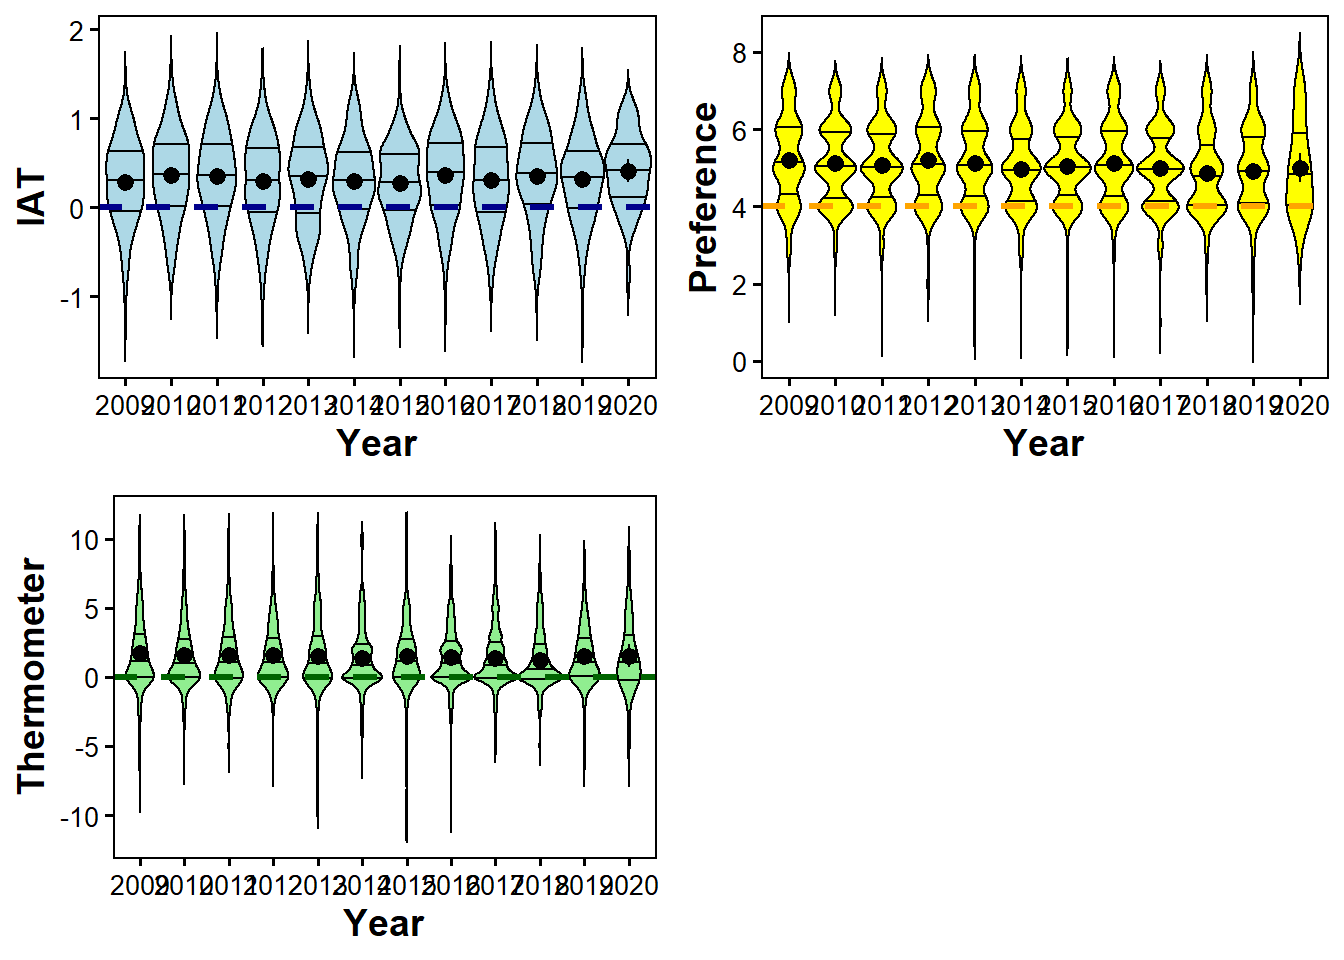
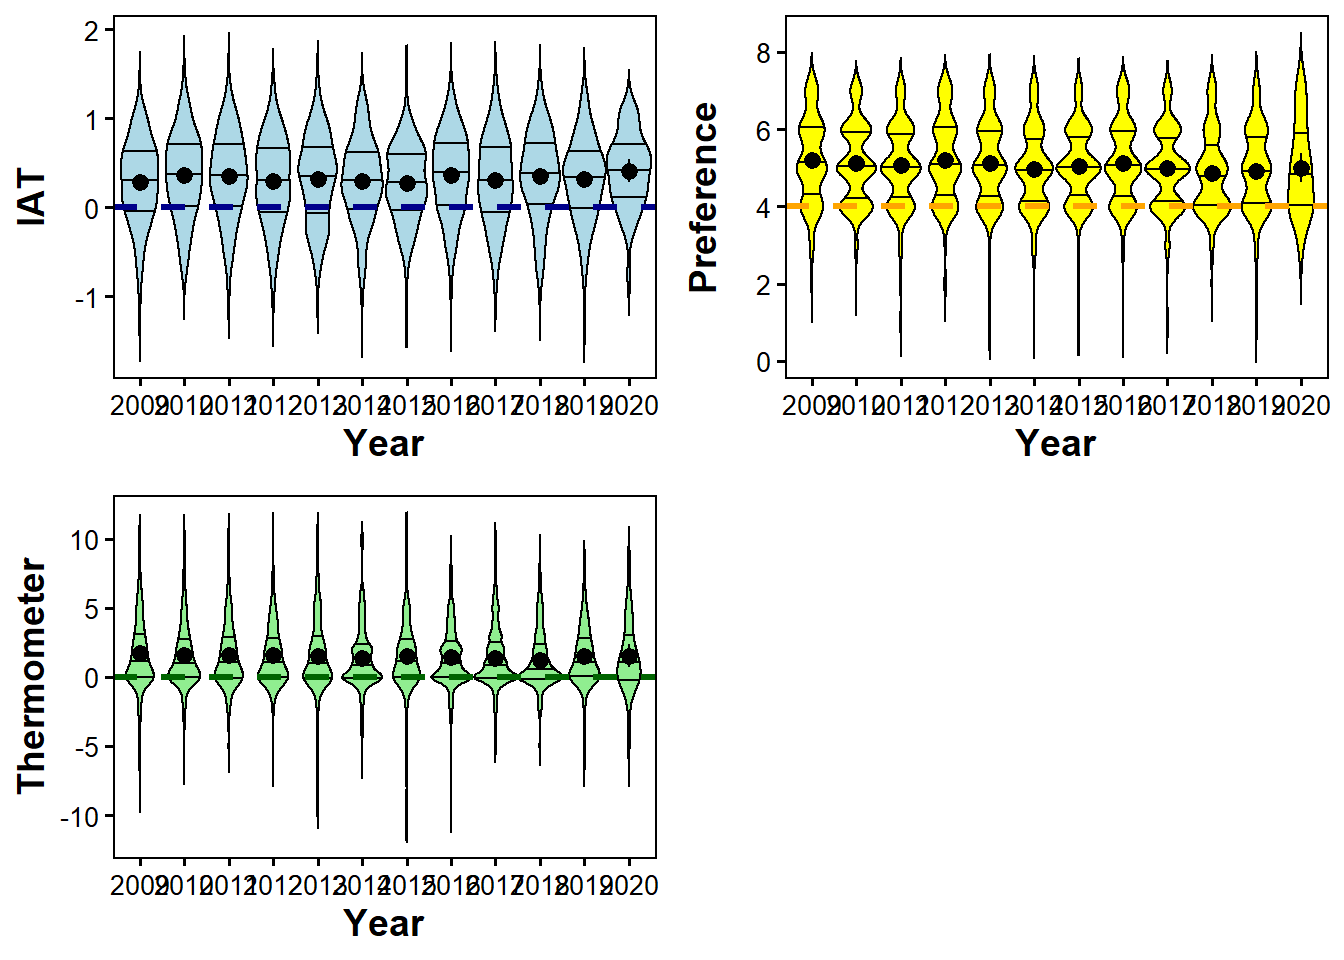
update israle's post

diff --git a/public/post/analysis-of-israel-s-data/index.html b/public/post/analysis-of-israel-s-data/index.html
@@ -59,7 +59,7 @@
   "headline": "Analysis of Israel\x27s data",
   "description" : "Summary\rTasks Overview\rThe IATs\rThe Self-Reports\rInternal\/External motivation to avoid prejudice\rSocial-Dominance Orientation\rRight-Wing Authoritarianism\r\rTask-Specific Items\rAge-IAT: Perceptions Regarding Age\rEthnicity-IAT:\rSkin-tone IAT: Perceptions regarding skin tone\rWeight-IAT: Perceptions regarding weight\rSexuality-IAT: Perceptions regarding sexuality\rGender-Science IAT: Evaluation measures\rGender-Science IAT: Perceptions regarding gender and science\r\r\rResults\rAge IAT\rEvaluation measures: Overall means and correlations\rCorrelation between the measures\rIAT block-order\rInternal\/External motivation to avoid prejudice\rPerceptions regarding age\rEvaluation measures by demographics\rIAT by N of previous IATs\rEvaluation measures by year\r\rEthnicity IAT\rEvaluation measures: Overall means and correlations\rCorrelation between the measures\rIAT block-order\rPerceived preference in society\rPerceptions regarding ethnicity\rEvaluation measures by demographics\rIAT by N of previous IATs\rEvaluation measures by year\r\rRace IAT\rEvaluation measures: Overall means and correlations\rCorrelation between the measures\rIAT block-order\rRight wing authoritarianism\rsocial dominance orientation\rEvaluation measures by demographics\rIAT by N of previous IATs\rEvaluation measures by year\r\rSkin IAT\rEvaluation measures: Overall means and correlations\rCorrelation between the measures\rIAT block-order\rPerceptions regarding skin tone\rRight wing authoritarianism\rsocial dominance orientation\rEvaluation measures by demographics\rIAT by N of previous IATs\rEvaluation measures by year\r\rWeight IAT\rEvaluation measures: Overall means and correlations\rCorrelation between the measures\rIAT block-order\rInternal\/External motivation to avoid prejudice\rPerceptions regarding weight\rEvaluation measures by demographics\rIAT by N of previous IATs\rEvaluation measures by year\r\rSexuality IAT\rEvaluation measures: Overall means and correlations\rCorrelation between the measures\rIAT block-order\rPerceptions regarding sexuality\rEvaluation measures by demographics\rIAT by N of previous IATs\rEvaluation measures by year\r\rGender-Science IAT\rEvaluation measures: Overall means and correlations\rCorrelation between the measures\rIAT block-order\rPerceptions regarding gender and science\rEvaluation measures by demographics\rIAT by N of previous IATs\rEvaluation measures by year\r\rNationalism IAT\rEvaluation measures: Overall means and correlations\rCorrelation between the measures\rIAT block-order\rRight wing authoritarianism\rsocial dominance orientation\rEvaluation measures by demographics\rIAT by N of previous IATs\rEvaluation measures by year\r\r\rCompare all IATs\r\r\rbody, td { font-size: 16px; } code.",
   "inLanguage" : "en",
-  "wordCount":  24949 ,
+  "wordCount":  24967 ,
   "datePublished" : "2020-05-19T00:00:00",
   "dateModified" : "2020-05-19T00:00:00",
   "image" : "\/img\/logo.png",
@@ -241,7 +241,7 @@
     &nbsp;|&nbsp;<i class="fas fa-clock"></i>&nbsp;118&nbsp;minutes
   
   
-    &nbsp;|&nbsp;<i class="fas fa-book"></i>&nbsp;24949&nbsp;words
+    &nbsp;|&nbsp;<i class="fas fa-book"></i>&nbsp;24967&nbsp;words
   
   
     
@@ -1237,8 +1237,15 @@ p3 &lt;- p3 + font(&quot;title&quot;, size = 14, color = &quot;black&quot;, face
     font(&quot;xy.text&quot;, size = 10, color = &quot;black&quot;)
 p3 &lt;- p3 + theme(legend.position = &quot;none&quot;)
 
-ggarrange(p1, ggarrange(p2, p3, ncol = 2), nrow = 2)</code></pre>
+ggarrange(p1, p2, p3, ncol = 1, nrow = 2)</code></pre>
+<pre><code>$`1`</code></pre>
 <p><img src="/post/2020-05-19-analysis-of-israel-s-data.en_files/figure-html/unnamed-chunk-17-1.png" width="672" /></p>
+<pre><code>
+$`2`</code></pre>
+<p><img src="/post/2020-05-19-analysis-of-israel-s-data.en_files/figure-html/unnamed-chunk-17-2.png" width="672" /></p>
+<pre><code>
+attr(,&quot;class&quot;)
+[1] &quot;list&quot;      &quot;ggarrange&quot;</code></pre>
 </div>
 </div>
 <div id="ethnicity-iat-1" class="section level2">
@@ -1662,7 +1669,7 @@ p4 &lt;- p4 + font(&quot;title&quot;, size = 14, color = &quot;black&quot;, face
 p4 &lt;- p4 + theme(legend.position = &quot;none&quot;)
 
 
-ggarrange(p1, p2, p3, p4, ncol = 2, nrow = 2)</code></pre>
+ggarrange(p1, p2, p3, p4, ncol = 1, nrow = 4)</code></pre>
 <p><img src="/post/2020-05-19-analysis-of-israel-s-data.en_files/figure-html/unnamed-chunk-31-1.png" width="672" /></p>
 <p>There was a positive relation between all evaluation measures and all perception measures, but Smart and Scare were most strongly related to evaluation.</p>
 <pre class="r"><code>ethnic %&gt;% corrMatrix(vars = vars(IAT, att, diff_pref, scare, 
@@ -2435,8 +2442,15 @@ p3 &lt;- p3 + font(&quot;title&quot;, size = 14, color = &quot;black&quot;, face
     font(&quot;xy.text&quot;, size = 10, color = &quot;black&quot;)
 p3 &lt;- p3 + theme(legend.position = &quot;none&quot;)
 
-ggarrange(p1, ggarrange(p2, p3, ncol = 2), nrow = 2)</code></pre>
+ggarrange(p1, p2, p3, ncol = 1, nrow = 2)</code></pre>
+<pre><code>$`1`</code></pre>
 <p><img src="/post/2020-05-19-analysis-of-israel-s-data.en_files/figure-html/unnamed-chunk-35-1.png" width="672" /></p>
+<pre><code>
+$`2`</code></pre>
+<p><img src="/post/2020-05-19-analysis-of-israel-s-data.en_files/figure-html/unnamed-chunk-35-2.png" width="672" /></p>
+<pre><code>
+attr(,&quot;class&quot;)
+[1] &quot;list&quot;      &quot;ggarrange&quot;</code></pre>
 </div>
 </div>
 <div id="race-iat" class="section level2">
@@ -3455,8 +3469,15 @@ p3 &lt;- p3 + font(&quot;title&quot;, size = 14, color = &quot;black&quot;, face
     font(&quot;xy.text&quot;, size = 10, color = &quot;black&quot;)
 p3 &lt;- p3 + theme(legend.position = &quot;none&quot;)
 
-ggarrange(p1, ggarrange(p2, p3, ncol = 2), nrow = 2)</code></pre>
+ggarrange(p1, p2, p3, ncol = 1, nrow = 2)</code></pre>
+<pre><code>$`1`</code></pre>
 <p><img src="/post/2020-05-19-analysis-of-israel-s-data.en_files/figure-html/unnamed-chunk-52-1.png" width="672" /></p>
+<pre><code>
+$`2`</code></pre>
+<p><img src="/post/2020-05-19-analysis-of-israel-s-data.en_files/figure-html/unnamed-chunk-52-2.png" width="672" /></p>
+<pre><code>
+attr(,&quot;class&quot;)
+[1] &quot;list&quot;      &quot;ggarrange&quot;</code></pre>
 </div>
 </div>
 <div id="skin-iat" class="section level2">
@@ -4866,7 +4887,7 @@ p3 &lt;- p3 + font(&quot;title&quot;, size = 14, color = &quot;black&quot;, face
     font(&quot;xy.text&quot;, size = 10, color = &quot;black&quot;)
 p3 &lt;- p3 + theme(legend.position = &quot;none&quot;)
 
-cowplot::plot_grid(p1, p3, p2, ncol = 2, align = &quot;h&quot;, axis = &quot;bt&quot;)</code></pre>
+cowplot::plot_grid(p1, p3, p2, ncol = 2, align = &quot;v&quot;, axis = &quot;bt&quot;)</code></pre>
 <p><img src="/post/2020-05-19-analysis-of-israel-s-data.en_files/figure-html/unnamed-chunk-86-1.png" width="672" /></p>
 </div>
 </div>

diff --git a/content/post/2020-05-19-analysis-of-israel-s-data.en.html b/content/post/2020-05-19-analysis-of-israel-s-data.en.html
@@ -22,7 +22,7 @@ blogdown::html_page:
     fig_height: 5
     fig_width: 10   
     toc: true
-    toc_float: yes
+    toc_float: true
 type: ''
 subtitle: ''
 image: ''
@@ -1000,8 +1000,15 @@ p3 &lt;- p3 + font(&quot;title&quot;, size = 14, color = &quot;black&quot;, face
     font(&quot;xy.text&quot;, size = 10, color = &quot;black&quot;)
 p3 &lt;- p3 + theme(legend.position = &quot;none&quot;)
 
-ggarrange(p1, ggarrange(p2, p3, ncol = 2), nrow = 2)</code></pre>
+ggarrange(p1, p2, p3, ncol = 1, nrow = 2)</code></pre>
+<pre><code>$`1`</code></pre>
 <p><img src="/post/2020-05-19-analysis-of-israel-s-data.en_files/figure-html/unnamed-chunk-17-1.png" width="672" /></p>
+<pre><code>
+$`2`</code></pre>
+<p><img src="/post/2020-05-19-analysis-of-israel-s-data.en_files/figure-html/unnamed-chunk-17-2.png" width="672" /></p>
+<pre><code>
+attr(,&quot;class&quot;)
+[1] &quot;list&quot;      &quot;ggarrange&quot;</code></pre>
 </div>
 </div>
 <div id="ethnicity-iat-1" class="section level2">
@@ -1425,7 +1432,7 @@ p4 &lt;- p4 + font(&quot;title&quot;, size = 14, color = &quot;black&quot;, face
 p4 &lt;- p4 + theme(legend.position = &quot;none&quot;)
 
 
-ggarrange(p1, p2, p3, p4, ncol = 2, nrow = 2)</code></pre>
+ggarrange(p1, p2, p3, p4, ncol = 1, nrow = 4)</code></pre>
 <p><img src="/post/2020-05-19-analysis-of-israel-s-data.en_files/figure-html/unnamed-chunk-31-1.png" width="672" /></p>
 <p>There was a positive relation between all evaluation measures and all perception measures, but Smart and Scare were most strongly related to evaluation.</p>
 <pre class="r"><code>ethnic %&gt;% corrMatrix(vars = vars(IAT, att, diff_pref, scare, 
@@ -2198,8 +2205,15 @@ p3 &lt;- p3 + font(&quot;title&quot;, size = 14, color = &quot;black&quot;, face
     font(&quot;xy.text&quot;, size = 10, color = &quot;black&quot;)
 p3 &lt;- p3 + theme(legend.position = &quot;none&quot;)
 
-ggarrange(p1, ggarrange(p2, p3, ncol = 2), nrow = 2)</code></pre>
+ggarrange(p1, p2, p3, ncol = 1, nrow = 2)</code></pre>
+<pre><code>$`1`</code></pre>
 <p><img src="/post/2020-05-19-analysis-of-israel-s-data.en_files/figure-html/unnamed-chunk-35-1.png" width="672" /></p>
+<pre><code>
+$`2`</code></pre>
+<p><img src="/post/2020-05-19-analysis-of-israel-s-data.en_files/figure-html/unnamed-chunk-35-2.png" width="672" /></p>
+<pre><code>
+attr(,&quot;class&quot;)
+[1] &quot;list&quot;      &quot;ggarrange&quot;</code></pre>
 </div>
 </div>
 <div id="race-iat" class="section level2">
@@ -3218,8 +3232,15 @@ p3 &lt;- p3 + font(&quot;title&quot;, size = 14, color = &quot;black&quot;, face
     font(&quot;xy.text&quot;, size = 10, color = &quot;black&quot;)
 p3 &lt;- p3 + theme(legend.position = &quot;none&quot;)
 
-ggarrange(p1, ggarrange(p2, p3, ncol = 2), nrow = 2)</code></pre>
+ggarrange(p1, p2, p3, ncol = 1, nrow = 2)</code></pre>
+<pre><code>$`1`</code></pre>
 <p><img src="/post/2020-05-19-analysis-of-israel-s-data.en_files/figure-html/unnamed-chunk-52-1.png" width="672" /></p>
+<pre><code>
+$`2`</code></pre>
+<p><img src="/post/2020-05-19-analysis-of-israel-s-data.en_files/figure-html/unnamed-chunk-52-2.png" width="672" /></p>
+<pre><code>
+attr(,&quot;class&quot;)
+[1] &quot;list&quot;      &quot;ggarrange&quot;</code></pre>
 </div>
 </div>
 <div id="skin-iat" class="section level2">
@@ -4629,7 +4650,7 @@ p3 &lt;- p3 + font(&quot;title&quot;, size = 14, color = &quot;black&quot;, face
     font(&quot;xy.text&quot;, size = 10, color = &quot;black&quot;)
 p3 &lt;- p3 + theme(legend.position = &quot;none&quot;)
 
-cowplot::plot_grid(p1, p3, p2, ncol = 2, align = &quot;h&quot;, axis = &quot;bt&quot;)</code></pre>
+cowplot::plot_grid(p1, p3, p2, ncol = 2, align = &quot;v&quot;, axis = &quot;bt&quot;)</code></pre>
 <p><img src="/post/2020-05-19-analysis-of-israel-s-data.en_files/figure-html/unnamed-chunk-86-1.png" width="672" /></p>
 </div>
 </div>

diff --git a/public/categories/age-iat/index.html b/public/categories/age-iat/index.html
@@ -217,7 +217,7 @@
     &nbsp;|&nbsp;<i class="fas fa-clock"></i>&nbsp;118&nbsp;minutes
   
   
-    &nbsp;|&nbsp;<i class="fas fa-book"></i>&nbsp;24949&nbsp;words
+    &nbsp;|&nbsp;<i class="fas fa-book"></i>&nbsp;24967&nbsp;words
   
   
     

diff --git a/public/categories/ethnicity-iat/index.html b/public/categories/ethnicity-iat/index.html
@@ -217,7 +217,7 @@
     &nbsp;|&nbsp;<i class="fas fa-clock"></i>&nbsp;118&nbsp;minutes
   
   
-    &nbsp;|&nbsp;<i class="fas fa-book"></i>&nbsp;24949&nbsp;words
+    &nbsp;|&nbsp;<i class="fas fa-book"></i>&nbsp;24967&nbsp;words
   
   
     

diff --git a/public/categories/gender-science-iat/index.html b/public/categories/gender-science-iat/index.html
@@ -217,7 +217,7 @@
     &nbsp;|&nbsp;<i class="fas fa-clock"></i>&nbsp;118&nbsp;minutes
   
   
-    &nbsp;|&nbsp;<i class="fas fa-book"></i>&nbsp;24949&nbsp;words
+    &nbsp;|&nbsp;<i class="fas fa-book"></i>&nbsp;24967&nbsp;words
   
   
     

diff --git a/public/categories/iat/index.html b/public/categories/iat/index.html
@@ -217,7 +217,7 @@
     &nbsp;|&nbsp;<i class="fas fa-clock"></i>&nbsp;118&nbsp;minutes
   
   
-    &nbsp;|&nbsp;<i class="fas fa-book"></i>&nbsp;24949&nbsp;words
+    &nbsp;|&nbsp;<i class="fas fa-book"></i>&nbsp;24967&nbsp;words
   
   
     

diff --git a/public/categories/israel/index.html b/public/categories/israel/index.html
@@ -217,7 +217,7 @@
     &nbsp;|&nbsp;<i class="fas fa-clock"></i>&nbsp;118&nbsp;minutes
   
   
-    &nbsp;|&nbsp;<i class="fas fa-book"></i>&nbsp;24949&nbsp;words
+    &nbsp;|&nbsp;<i class="fas fa-book"></i>&nbsp;24967&nbsp;words
   
   
     

diff --git a/public/categories/nationalism-iat/index.html b/public/categories/nationalism-iat/index.html
@@ -217,7 +217,7 @@
     &nbsp;|&nbsp;<i class="fas fa-clock"></i>&nbsp;118&nbsp;minutes
   
   
-    &nbsp;|&nbsp;<i class="fas fa-book"></i>&nbsp;24949&nbsp;words
+    &nbsp;|&nbsp;<i class="fas fa-book"></i>&nbsp;24967&nbsp;words
   
   
     

diff --git a/public/categories/race-iat/index.html b/public/categories/race-iat/index.html
@@ -217,7 +217,7 @@
     &nbsp;|&nbsp;<i class="fas fa-clock"></i>&nbsp;118&nbsp;minutes
   
   
-    &nbsp;|&nbsp;<i class="fas fa-book"></i>&nbsp;24949&nbsp;words
+    &nbsp;|&nbsp;<i class="fas fa-book"></i>&nbsp;24967&nbsp;words
   
   
     

diff --git a/public/categories/sexuality-iat/index.html b/public/categories/sexuality-iat/index.html
@@ -217,7 +217,7 @@
     &nbsp;|&nbsp;<i class="fas fa-clock"></i>&nbsp;118&nbsp;minutes
   
   
-    &nbsp;|&nbsp;<i class="fas fa-book"></i>&nbsp;24949&nbsp;words
+    &nbsp;|&nbsp;<i class="fas fa-book"></i>&nbsp;24967&nbsp;words
   
   
     

diff --git a/public/categories/skin-iat/index.html b/public/categories/skin-iat/index.html
@@ -217,7 +217,7 @@
     &nbsp;|&nbsp;<i class="fas fa-clock"></i>&nbsp;118&nbsp;minutes
   
   
-    &nbsp;|&nbsp;<i class="fas fa-book"></i>&nbsp;24949&nbsp;words
+    &nbsp;|&nbsp;<i class="fas fa-book"></i>&nbsp;24967&nbsp;words
   
   
     

diff --git a/public/categories/weight-iat/index.html b/public/categories/weight-iat/index.html
@@ -217,7 +217,7 @@
     &nbsp;|&nbsp;<i class="fas fa-clock"></i>&nbsp;118&nbsp;minutes
   
   
-    &nbsp;|&nbsp;<i class="fas fa-book"></i>&nbsp;24949&nbsp;words
+    &nbsp;|&nbsp;<i class="fas fa-book"></i>&nbsp;24967&nbsp;words
   
   
     
